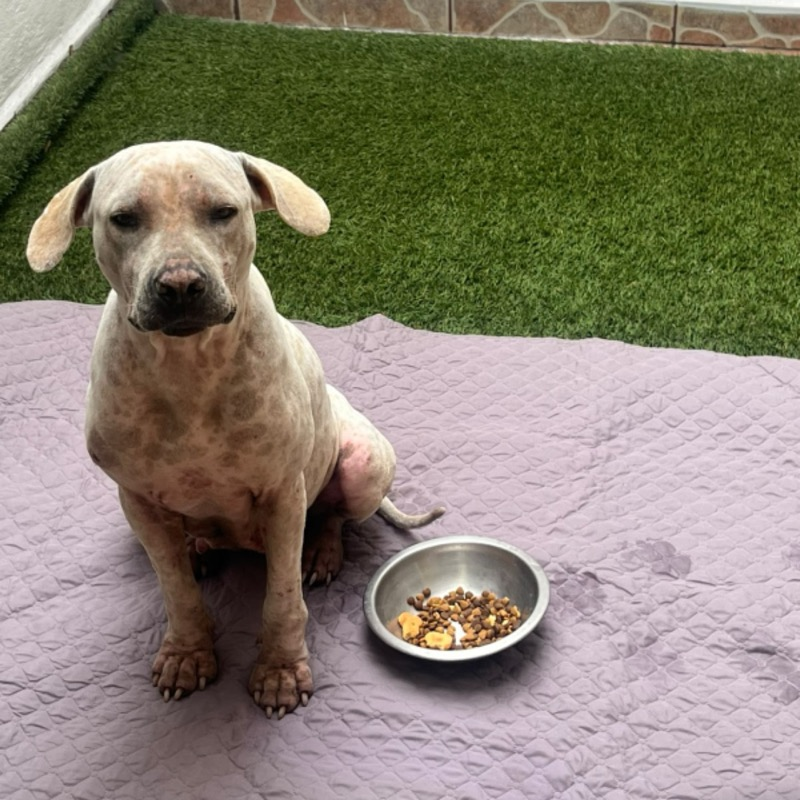
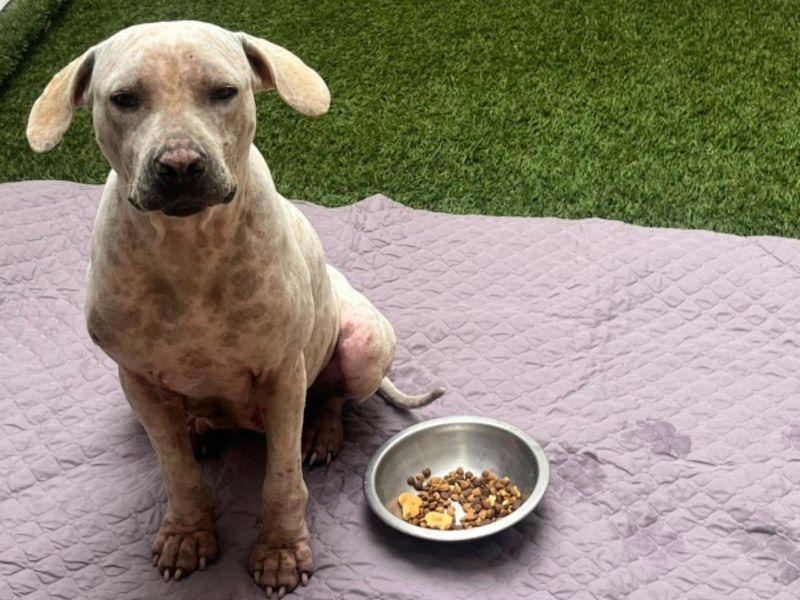
Fotos cubren el recuadro: recortes 4:3 priorizando a la mascota

diff --git a/index.html b/index.html
@@ -61,7 +61,7 @@
           display: flex; flex-direction: column; box-shadow: 0 1px 3px #1f2a3d12; }
   .fotos { display: flex; overflow-x: auto; scroll-snap-type: x mandatory; background: #efe6d2;
            aspect-ratio: 4 / 3; }
-  .fotos img { flex: 0 0 100%; width: 100%; height: 100%; object-fit: contain; scroll-snap-align: start; }
+  .fotos img { flex: 0 0 100%; width: 100%; height: 100%; object-fit: cover; scroll-snap-align: start; }
   .sin-foto { display: grid; place-items: center; width: 100%; font-size: 56px; opacity: .55; }
   .nfotos { position: relative; }
   .nfotos span { position: absolute; right: 10px; top: -34px; background: #000a; color: #fff;

diff --git a/README.md b/README.md
@@ -58,7 +58,10 @@ respaldo de la Mac (Time Machine o iCloud); si se pierde la carga, se pierde la 
 cambia su estado) y se pone la fecha en `fecha_cierre`. La tarjeta se queda como final feliz.
 
 **Fotos:** sólo de la mascota, sin capturas del chat, sin teléfonos de vecinas y sin direcciones.
-Pesan unos 150 KB y se guardan como `<id_caso>/foto-1.jpg`, `foto-2.jpg`. Si un caso no tiene
+Se recortan a **4:3** (la tarjeta las muestra cubriendo todo el recuadro) eligiendo el encuadre
+para que la mascota se vea bien: primero la carita y el cuerpo, aunque se pierda una patita o la
+cola. Pesan unos 150 KB y se guardan en `privado/fotos/<id_caso>/foto-1.jpg`, `foto-2.jpg`;
+`publicar` las copia a `casos/`. Si un caso no tiene
 permiso de foto, el script la quita de la página.
 
 **Si se cuela un dato privado** (el teléfono de una vecina, una dirección exacta):
